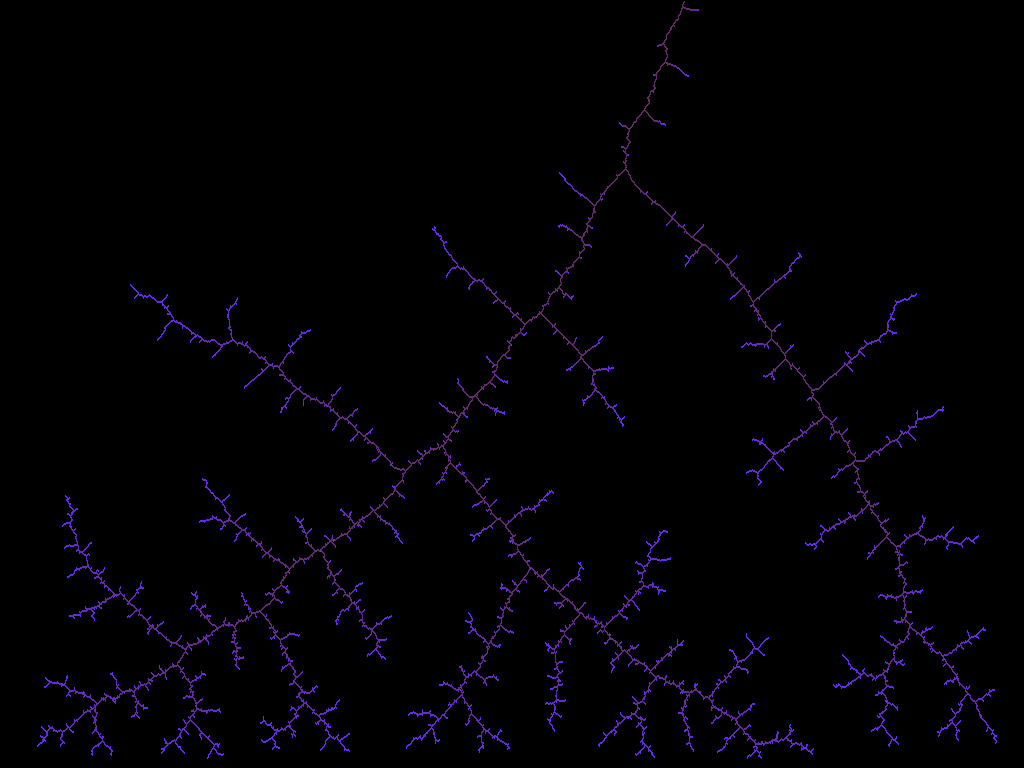
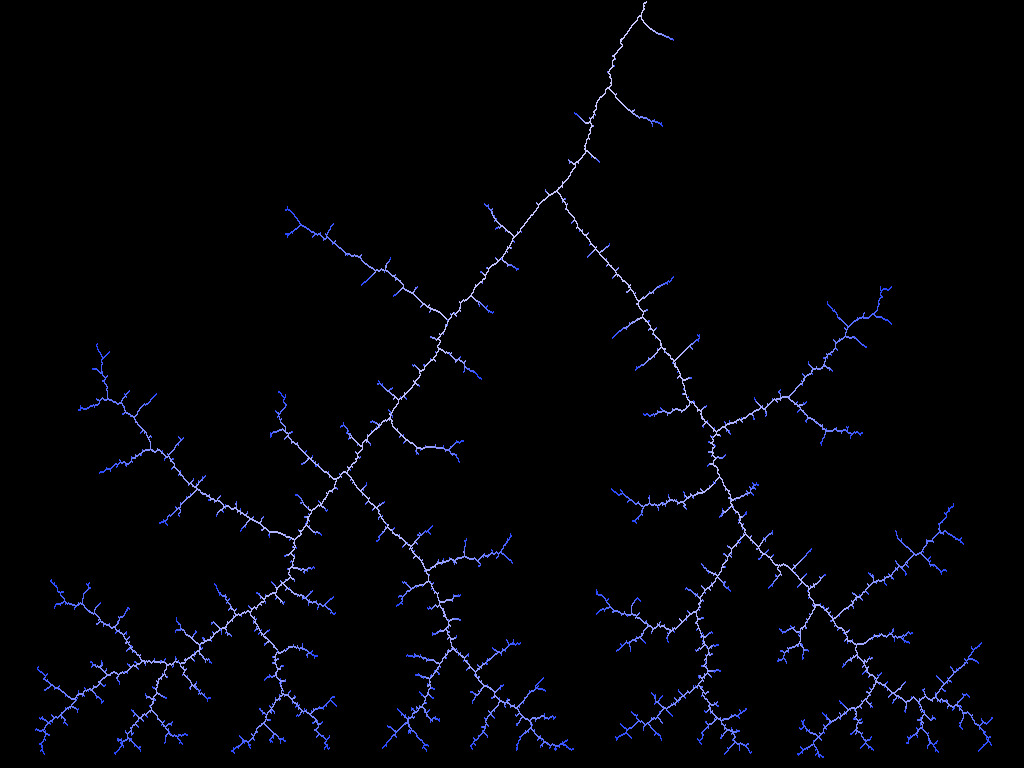
Changed lightning coloring

diff --git a/src/lightning.c b/src/lightning.c
@@ -60,7 +60,10 @@ void draw() {
 	int green = rand() % 120;
 	step = 1;
 	while (step < PNUM) {
-		fgcolor(red, green, 100+step*155/PNUM);
+		fgcolor(
+			red + (200-red)*(PNUM-step)/PNUM,
+			green + (200-green)*(PNUM-step)/PNUM,
+			255);
 		next_step();
 	}
 }
